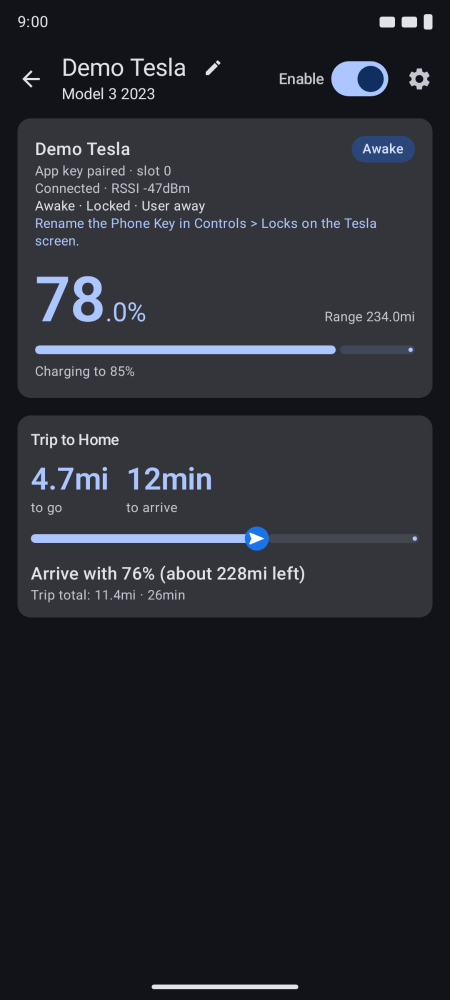
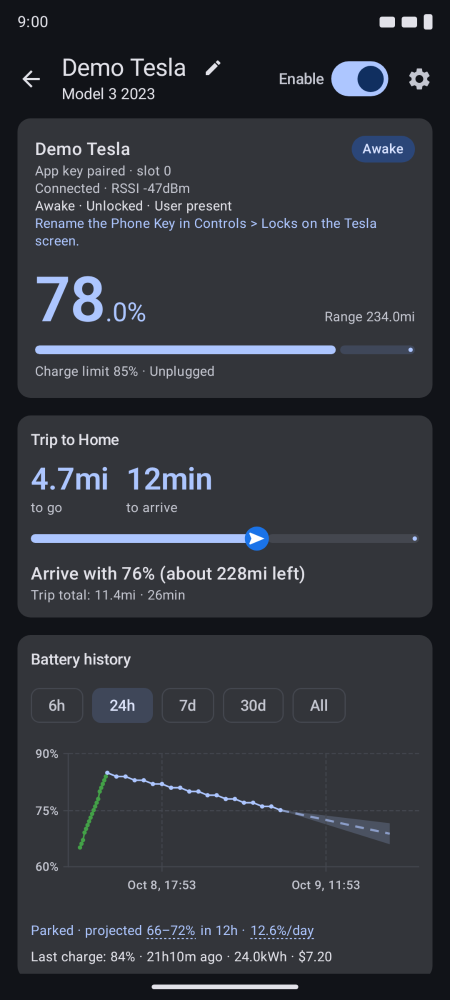
fix: show the trip screenshot while driving, ellipsize a long destination and tidy the README images
Claude-Session: https://claude.ai/code/session_01PLLPdEGMtwQUrgVjwf5FFz

diff --git a/app/src/test/java/com/dzid26/teslable/ui/DemoScreenFixtures.kt b/app/src/test/java/com/dzid26/teslable/ui/DemoScreenFixtures.kt
@@ -41,6 +41,7 @@ internal object DemoScreenFixtures {
 
     private const val MINUTE = 60_000L
     private const val LIVE_PERCENT = 78
+    private const val LIVE_TOP_UP_START_MINUTES = 90L
     private const val CHARGE_LIMIT = 85
     private const val RATED_MILES_PER_PERCENT = 3.0f
     private const val KWH_PER_PERCENT = 0.75f
@@ -75,6 +76,15 @@ internal object DemoScreenFixtures {
             usable_battery_level = LIVE_PERCENT,
         )
 
+    private val driving =
+        ChargeState(
+            charging_state = ChargeState.ChargingState(Disconnected = Void()),
+            charge_limit_soc = CHARGE_LIMIT,
+            battery_range = LIVE_PERCENT * RATED_MILES_PER_PERCENT,
+            battery_level = LIVE_PERCENT,
+            usable_battery_level = LIVE_PERCENT,
+        )
+
     private val awakeLocked =
         VehicleStatus(
             vehicleLockState = VehicleLockState_E.VEHICLELOCKSTATE_LOCKED,
@@ -82,16 +92,25 @@ internal object DemoScreenFixtures {
             userPresence = UserPresence_E.VEHICLE_USER_PRESENCE_NOT_PRESENT,
         )
 
+    private val atTheWheel =
+        VehicleStatus(
+            vehicleLockState = VehicleLockState_E.VEHICLELOCKSTATE_UNLOCKED,
+            vehicleSleepStatus = VehicleSleepStatus_E.VEHICLE_SLEEP_STATUS_AWAKE,
+            userPresence = UserPresence_E.VEHICLE_USER_PRESENCE_PRESENT,
+        )
+
     private fun connection(
         nowMillis: Long,
         pairing: PairingPhase,
+        charge: ChargeState = charging,
+        status: VehicleStatus = awakeLocked,
     ) = TeslaConnection(
         address = DEMO_ADDRESS,
         name = bleName,
         phase = ConnectionPhase.READY,
-        status = awakeLocked,
+        status = status,
         keySlot = KEY_SLOT,
-        charge = charging,
+        charge = charge,
         chargeAtMillis = nowMillis - MINUTE,
         pairing = pairing,
     )
@@ -127,6 +146,19 @@ internal object DemoScreenFixtures {
             connections = mapOf(DEMO_ADDRESS to connection(nowMillis, PairingPhase.OK)),
             selectedBleName = bleName,
         )
+
+    /** The car screen while the car drives: not charging, so the trip card is not next to a "Charging to" line. */
+    fun drivingState(nowMillis: Long) =
+        carState(nowMillis).copy(
+            connections = mapOf(DEMO_ADDRESS to connection(nowMillis, PairingPhase.OK, driving, atTheWheel)),
+        )
+
+    /** [history] without the live top-up, which began 90 minutes ago. */
+    fun drivingHistory(nowMillis: Long): List<BatterySample> =
+        history(nowMillis).filter {
+            it.timestampMillis <
+                nowMillis - LIVE_TOP_UP_START_MINUTES * MINUTE
+        }
 
     private data class Point(
         val minutesAgo: Long,

diff --git a/app/src/main/java/com/dzid26/teslable/ble/TripNotification.kt b/app/src/main/java/com/dzid26/teslable/ble/TripNotification.kt
@@ -132,7 +132,12 @@ internal fun NotificationCompat.Builder.showTrip(
     val progress = notice.progressPercent
     if (Build.VERSION.SDK_INT >= Build.VERSION_CODES.BAKLAVA && progress != null) {
         val line =
-            listOfNotNull(notice.destination, percent?.let { "$it%" }, text.arrivalShort(notice), remaining).joinToString(" \u00B7 ")
+            listOfNotNull(
+                notice.destination?.ellipsize(),
+                percent?.let { "$it%" },
+                text.arrivalShort(notice),
+                remaining,
+            ).joinToString(" \u00B7 ")
         // The progress style shows only the content text, so the state line moves to the sub-text (with a PR build's label).
         val subText = if (BuildConfig.BUILD_LABEL.isEmpty()) stateText else "${BuildConfig.BUILD_LABEL} \u00B7 $stateText"
         return setContentText(line)
@@ -244,6 +249,10 @@ internal class TripTextContext(
     }
 }
 
+/** A destination for the one-line text: a long name must not push the arrival and the time left off the end. */
+private fun String.ellipsize(): String = if (length > MAX_DESTINATION_CHARS) take(MAX_DESTINATION_CHARS - 1).trimEnd() + "\u2026" else this
+
+private const val MAX_DESTINATION_CHARS = 18
 private const val TENTHS = 10f
 private const val PERCENT_FULL = 100f
 private const val TRIP_BAR_MAX = 100

diff --git a/app/src/test/java/com/dzid26/teslable/ui/CardSnapshots.kt b/app/src/test/java/com/dzid26/teslable/ui/CardSnapshots.kt
@@ -661,11 +661,11 @@ class CardSnapshots {
             )
         snapScreen("screen-car-detail-navigating") {
             CarScreen(
-                state = DemoScreenFixtures.carState(NOW),
+                state = DemoScreenFixtures.drivingState(NOW),
                 vehicle = DemoScreenFixtures.vehicle,
                 advert = DemoScreenFixtures.carAdvert,
                 address = DemoScreenFixtures.DEMO_ADDRESS,
-                history = DemoScreenFixtures.history(NOW),
+                history = DemoScreenFixtures.drivingHistory(NOW),
                 driveHistory = DemoScreenFixtures.drives(NOW),
                 statusHistory = emptyList(),
                 routes = mapOf(DemoScreenFixtures.vehicle.bleName to route),

diff --git a/README.md b/README.md
@@ -19,11 +19,11 @@ Light and dark themes, side by side.
 
 **Light**
 
-<p><img src="website/images/02-scanning.png" alt="Scanning for nearby cars (light)" width="24%">;<img src="website/images/03-car.png" alt="Car detail with the battery reading (light)" width="24%">;<img src="website/images/04-trip.png" alt="Trip card with the progress bar (light)" width="24%">;<img src="website/images/05-settings.png" alt="Settings (light)" width="24%"></p>
+<p><img src="website/images/02-scanning.png" alt="Scanning for nearby cars (light)" width="24%"><img src="website/images/03-car.png" alt="Car detail with the battery reading (light)" width="24%"><img src="website/images/04-trip.png" alt="Trip card with the progress bar (light)" width="24%"><img src="website/images/05-settings.png" alt="Settings (light)" width="24%"></p>
 
 **Dark**
 
-<p><img src="website/images/02-scanning-dark.png" alt="Scanning for nearby cars (dark)" width="24%">;<img src="website/images/03-car-dark.png" alt="Car detail with the battery reading (dark)" width="24%">;<img src="website/images/04-trip-dark.png" alt="Trip card with the progress bar (dark)" width="24%">;<img src="website/images/05-settings-dark.png" alt="Settings (dark)" width="24%"></p>
+<p><img src="website/images/02-scanning-dark.png" alt="Scanning for nearby cars (dark)" width="24%"><img src="website/images/03-car-dark.png" alt="Car detail with the battery reading (dark)" width="24%"><img src="website/images/04-trip-dark.png" alt="Trip card with the progress bar (dark)" width="24%"><img src="website/images/05-settings-dark.png" alt="Settings (dark)" width="24%"></p>
 
 ## Features
 
